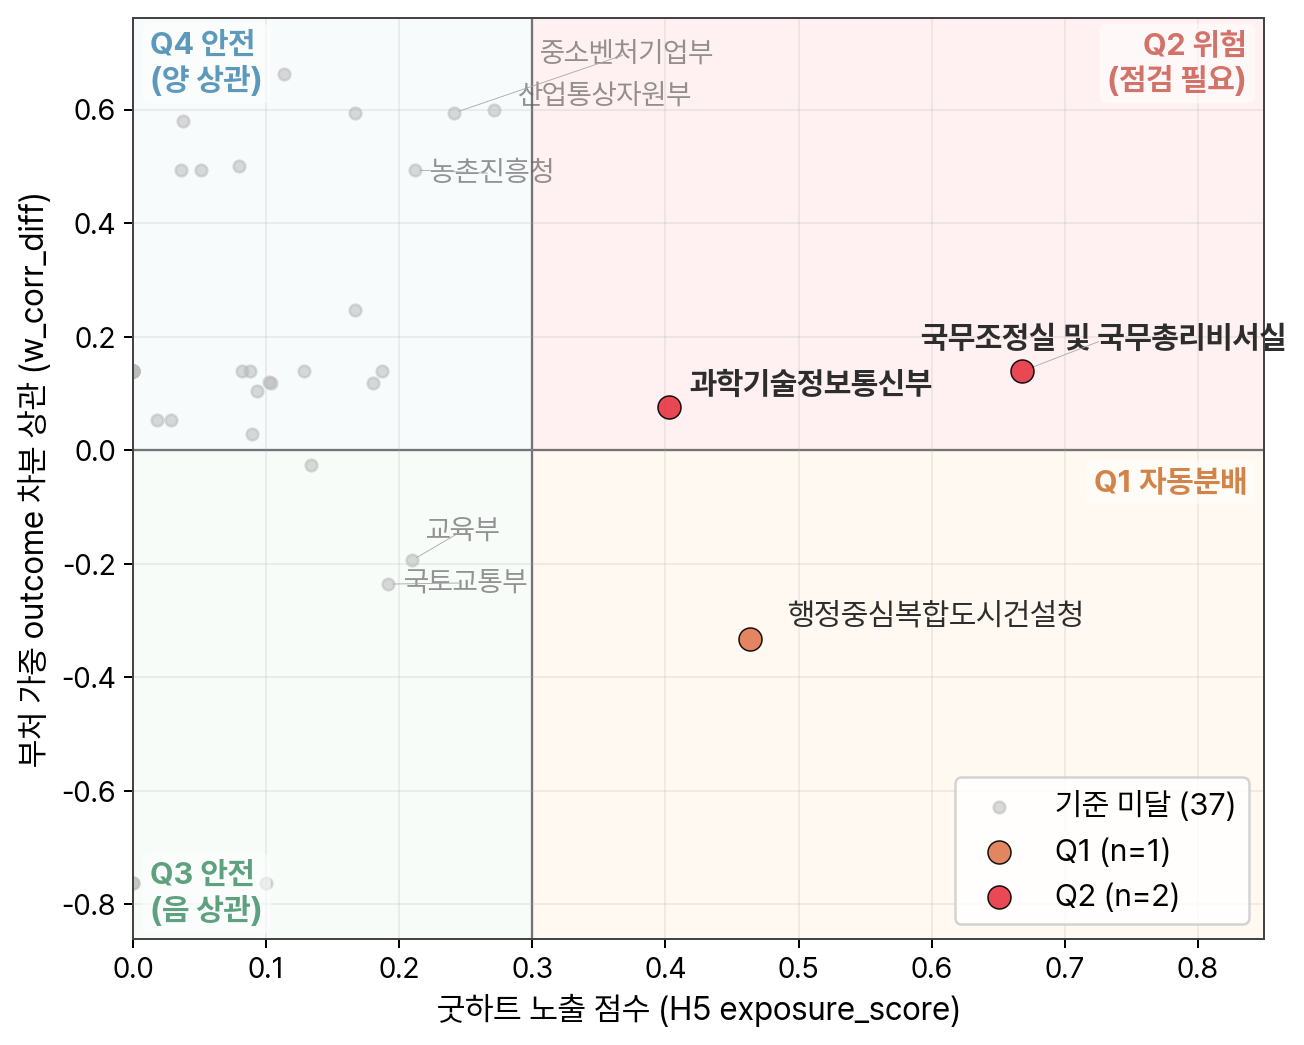
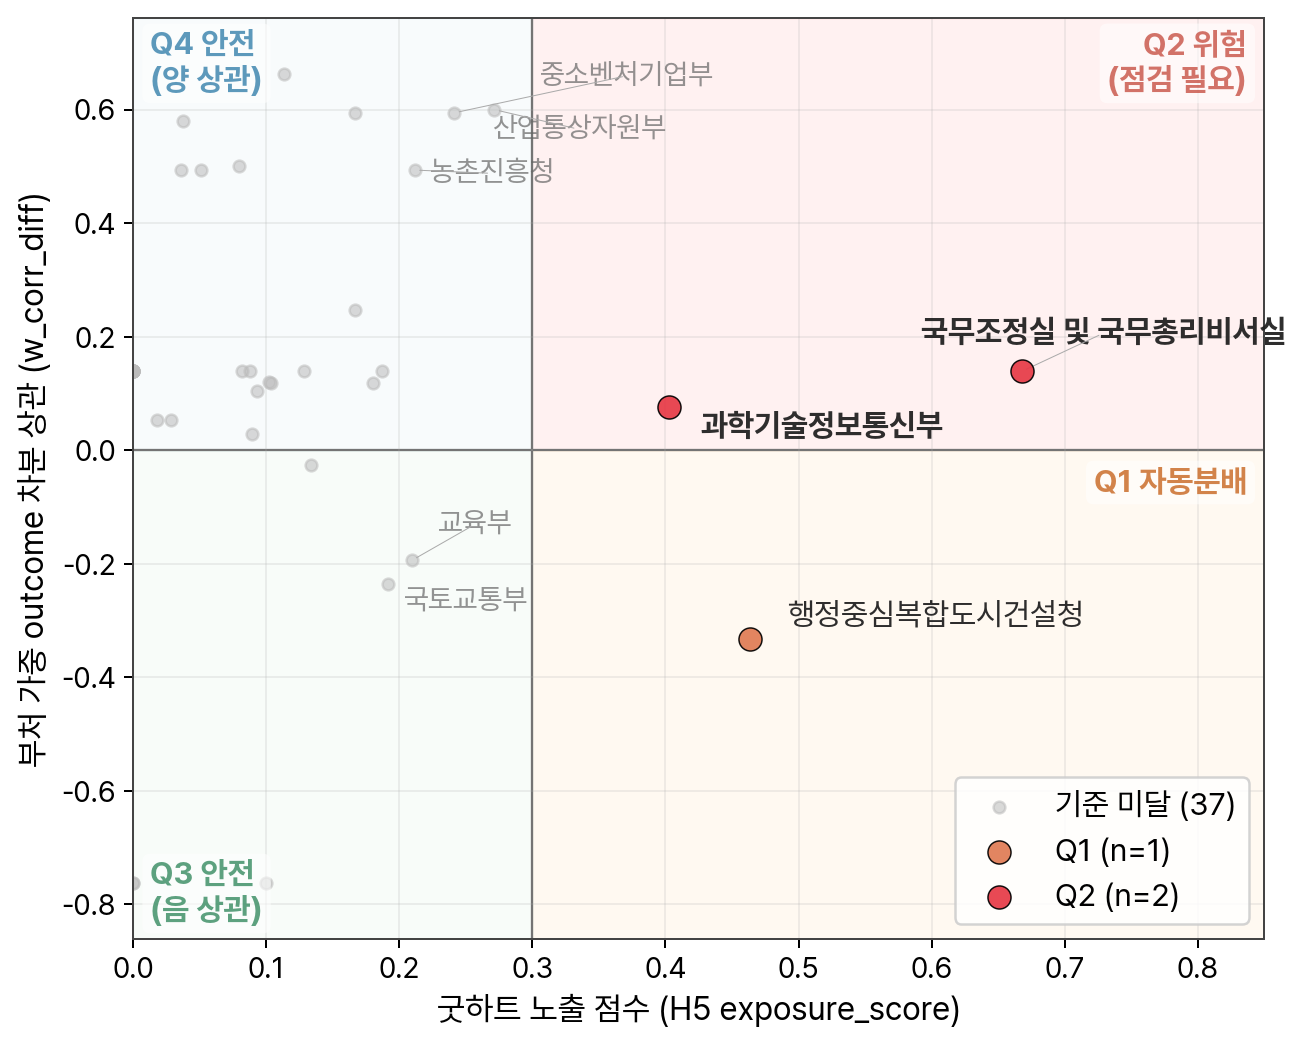
차트 텍스트 직관화 5차 — 사분면 라벨 겹침 해소 (adjustText 강화)
- h14_quadrant·ministry_quadrant: adjustText expand 1.4→2.2 + force_text/points 추가
  → 교육부·국토교통부, 중소벤처·산업통상 등 라벨 겹침 분리(커넥터 선)

diff --git a/scripts/figures/redo_fig10_quadrant.py b/scripts/figures/redo_fig10_quadrant.py
@@ -193,9 +193,12 @@ try:
                     fontsize=11.5, alpha=0.7, color='#666')
         texts.append(t)
     adjust_text(texts, ax=ax,
-                arrowprops=dict(arrowstyle='-', color='#aaa', lw=0.35),
-                expand_points=(1.4, 1.4),
-                expand_text=(1.3, 1.3))
+                arrowprops=dict(arrowstyle='-', color='#aaa', lw=0.4),
+                expand_points=(2.2, 2.2),
+                expand_text=(2.0, 2.0),
+                force_text=(1.0, 1.2),
+                force_points=(0.8, 1.0),
+                lim=200)
 except ImportError:
     for _, row in filt.iterrows():
         nm = str(row['OFFC_NM'])

diff --git a/scripts/slides/redo_slidefig_h14_quadrant.py b/scripts/slides/redo_slidefig_h14_quadrant.py
@@ -180,9 +180,12 @@ try:
                     fontsize=11.5, alpha=0.7, color='#666')
         texts.append(t)
     adjust_text(texts, ax=ax,
-                arrowprops=dict(arrowstyle='-', color='#aaa', lw=0.35),
-                expand_points=(1.4, 1.4),
-                expand_text=(1.3, 1.3))
+                arrowprops=dict(arrowstyle='-', color='#aaa', lw=0.4),
+                expand_points=(2.2, 2.2),
+                expand_text=(2.0, 2.0),
+                force_text=(1.0, 1.2),
+                force_points=(0.8, 1.0),
+                lim=200)
 except ImportError:
     pass
 
